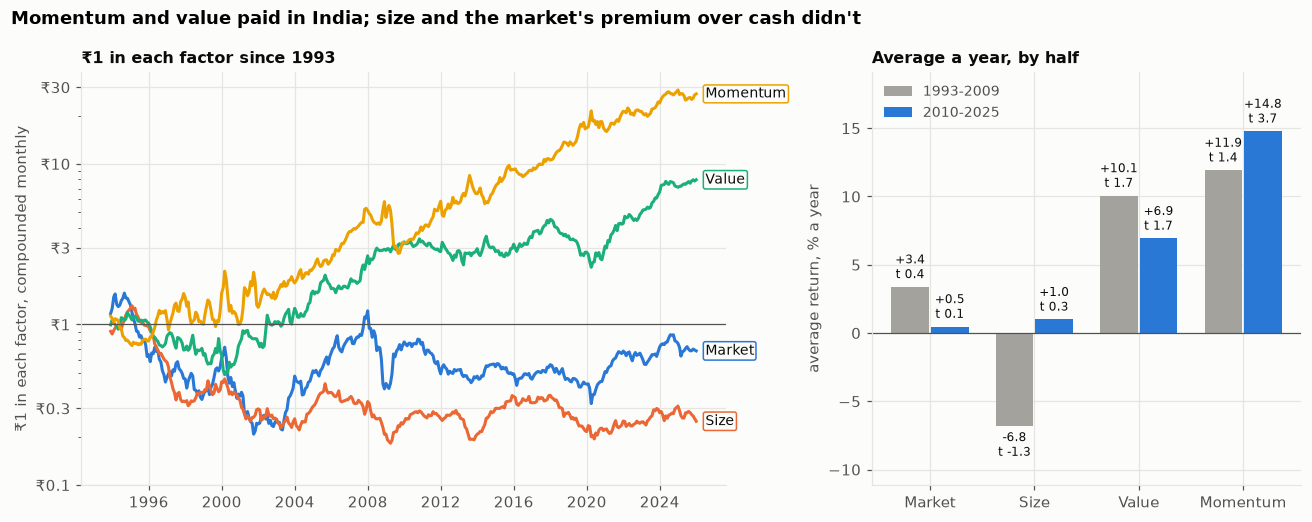
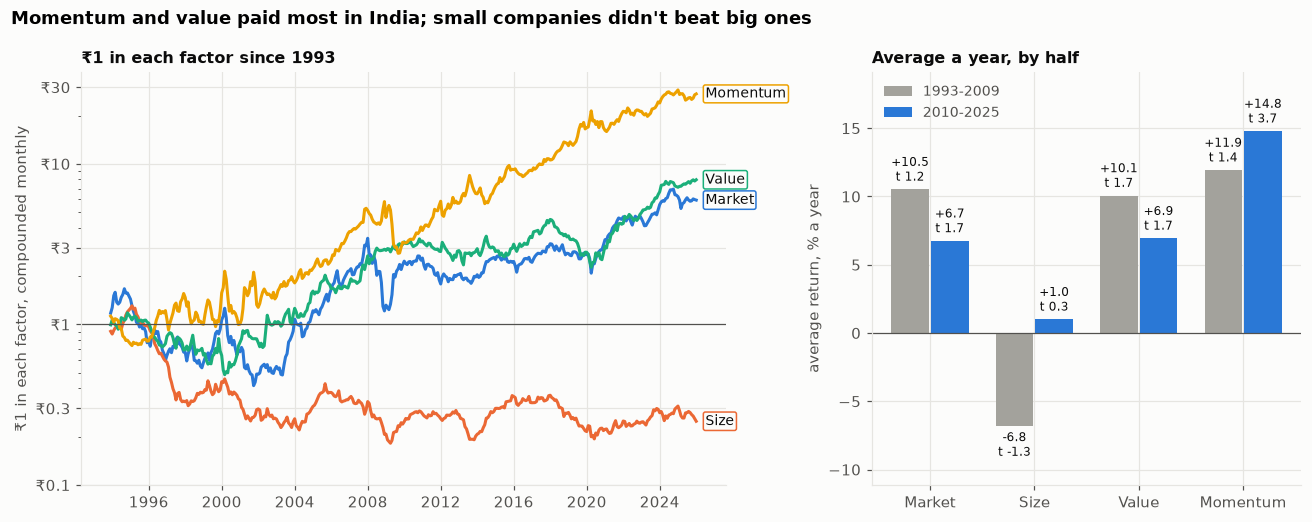
fix: the library's MF column is already the market premium, so stop subtracting the risk-free rate again; corrects finding 1 (market beat cash) and removes the spurious index-fund alpha in the lab, and cites the working paper the library asks for

diff --git a/src/ff/lab.html b/src/ff/lab.html
@@ -17,9 +17,8 @@ small minus big stocks, cheap minus expensive, recent winners minus losers. A li
 A market loading of 1 moves with the market; a positive size loading leans to small companies,
 value to cheap ones, momentum to recent winners. Alpha is what is left over a year after those
 exposures. A t above about 2 in size means the number is unlikely to be luck. Fund prices come
-live from mfapi.in (AMFI NAVs, after fees); direct plans start in 2013. Compare any fund’s alpha
-with the NIFTY 50 index fund’s: an index fund can’t beat its index, yet it shows a large alpha
-here, because the factor data’s market return trailed NIFTY (see the repository).</p>
+live from mfapi.in (AMFI NAVs, after fees); direct plans start in 2013. The NIFTY 50 index fund
+is a check: it can’t beat its index, so its alpha should sit near zero.</p>
 <div class="calc">
   <div class="calc-controls">
     <label>Fund <select id="ff-fund"></select></label>

diff --git a/src/ff/reports.py b/src/ff/reports.py
@@ -21,9 +21,9 @@ def _fmt(s: dict) -> str:
 def report_factors(out_dir: Path) -> dict:
     """What market, size, value and momentum earned in India: IIMA's monthly factors (the latest
     release, survivorship-bias adjusted), whole period and two halves, their worst falls and how
-    they move together. The market factor is the market's return minus the risk-free rate; the
-    other three are long-short. Newey-West t (3 lags). Also IIMA's market return against NIFTY
-    from the NSE bhavcopy archive where both exist."""
+    they move together. The market factor is the market's return minus the risk-free rate (the
+    file's MF); the other three are long-short. Newey-West t (3 lags). Also the market's own
+    return (MF + RF) against NIFTY from the NSE bhavcopy archive where both exist."""
     from ff import data, stats
 
     f = data.factors()
@@ -47,14 +47,14 @@ def report_factors(out_dir: Path) -> dict:
     c = f[data.FACTORS].corr()
     res["correlations"] = "; ".join(f"{a}-{b} {c.at[a, b]:+.2f}" for i, a in enumerate(data.FACTORS)
                                     for b in data.FACTORS[i + 1:])
-    res["market return (MF) and risk-free (RF), compounded"] = (
-        f"MF {stats.summary(f['MF'])['cagr']:+.1%} a year, "
-        f"RF {stats.summary(f['RF'])['cagr']:+.1%}")
+    res["market's own return and risk-free, compounded"] = (
+        f"market {stats.summary(f['MARKET'])['cagr']:+.1%} a year, "
+        f"risk-free {stats.summary(f['RF'])['cagr']:+.1%}")
     try:
         from ff.lake import nifty_monthly
 
         n = nifty_monthly()
-        j = pd.concat([f["MF"], n], axis=1, join="inner").dropna()
+        j = pd.concat([f["MARKET"], n], axis=1, join="inner").dropna()
         g = (1 + j).prod() ** (12 / len(j)) - 1
         res["IIMA market against NIFTY (price index)"] = (
             f"{j.index[0]:%b %Y}-{j.index[-1]:%b %Y}, {len(j)} months: correlation "
@@ -92,7 +92,7 @@ def report_factors(out_dir: Path) -> dict:
     ax.set_title("Average a year, by half", fontsize=10.5, loc="left")
     ax.legend(frameon=False, fontsize=9)
     ax.margins(y=0.2)
-    fig.suptitle("Momentum and value paid in India; size and the market's premium over cash didn't",
+    fig.suptitle("Momentum and value paid most in India; small companies didn't beat big ones",
                  x=0.01, ha="left", fontweight="bold")
     fig.tight_layout()
     plots.save(fig, out_dir, "factors")

diff --git a/src/ff/data.py b/src/ff/data.py
@@ -1,8 +1,9 @@
-"""IIM Ahmedabad's Indian Fama-French-momentum data library (Agarwalla, Jacob and Varma, 2017):
+"""IIM Ahmedabad's Indian Fama-French-momentum data library (Agarwalla, Jacob and Varma):
 the latest release's survivorship-bias adjusted files, fetched into data/iima/ (not committed).
 
 Factor columns, in percent a period: SMB (small minus big), HML (high minus low book-to-market),
-WML (winners minus losers, momentum), MF (market return) and RF (risk-free).
+WML (winners minus losers, momentum), MF (the market premium: market return minus risk-free,
+which matches the library's own published "market premium") and RF (risk-free).
 """
 
 import os
@@ -14,8 +15,9 @@ from pathlib import Path
 import pandas as pd
 
 LIBRARY = "https://faculty.iima.ac.in/iffm/Indian-Fama-French-Momentum/"
-CITATION = ("Agarwalla, S. K., Jacob, J. and Varma, J. R. (2017), Size, Value, and Momentum in "
-            "Indian Equities, Vikalpa 42(4), 211-219")
+CITATION = ("Agarwalla, S. K., Jacob, J. and Varma, J. R. (2013), Four factor model in Indian "
+            "equities market, Working Paper W.P. No. 2013-09-05, Indian Institute of Management, "
+            "Ahmedabad")
 FILES = {
     "factors_monthly": "FourFactors_and_Market_Returns_Monthly",
     "factors_daily": "FourFactors_and_Market_Returns_Daily",
@@ -77,15 +79,17 @@ def _read(key: str) -> pd.DataFrame:
 
 
 def factors(freq: str = "monthly") -> pd.DataFrame:
-    """Factor returns in decimals, indexed by month-end (monthly) or day: MKT (market minus
-    risk-free), SMB, HML, WML, RF and MF. Periods missing any of them are dropped (the source has
+    """Factor returns in decimals, indexed by month-end (monthly) or day: MKT (the market
+    premium, the file's MF), SMB, HML, WML, RF and MARKET (the market's own return, MF + RF).
+    Periods missing any of them are dropped (the source has
     no market return for its first month and no long-short returns for November 1994)."""
     d = _read(f"factors_{freq}") / 100
     d = d.dropna(subset=["MF", "RF", "SMB", "HML", "WML"])
-    d["MKT"] = d["MF"] - d["RF"]
+    d["MKT"] = d["MF"]
+    d["MARKET"] = d["MF"] + d["RF"]
     if freq == "monthly":
         d.index = d.index + pd.offsets.MonthEnd(0)
-    return d[FACTORS + ["RF", "MF"]]
+    return d[FACTORS + ["RF", "MARKET"]]
 
 
 def portfolios(key: str) -> pd.DataFrame:

diff --git a/src/ff/site.py b/src/ff/site.py
@@ -56,8 +56,7 @@ release {d["release"]}, {d["first"]} to {d["last"]}, survivorship-bias adjusted.
 market return minus the risk-free rate; the others are long-short portfolios of listed companies
 sorted on size, book-to-market and past 12-month return (skipping the latest month), with
 micro-cap and penny stocks excluded. November 1994, which has no long-short returns in the source,
-is left out. Their market return trails NIFTY’s price index in some years
-(see the repository), so treat it as IIMA’s own broad market.</li>
+is left out. The market is IIMA’s broad market of listed companies, not NIFTY.</li>
 <li>Growth of ₹1 compounds the monthly returns; averages are 12 times the monthly mean,
 volatility √12 times the monthly standard deviation, compounded growth uses the number of months
 divided by 12, and t is the mean over its Newey-West standard error with 3 lags.</li>

diff --git a/tests/test_stats.py b/tests/test_stats.py
@@ -38,4 +38,5 @@ def test_latest_release_and_factor_parsing(tmp_path, monkeypatch):
     monkeypatch.setenv("FF_DATA_DIR", str(tmp_path))
     f = data.factors()
     assert list(f.index) == [pd.Timestamp("1993-11-30")]
-    assert np.isclose(f["MKT"].iloc[0], 0.035) and np.isclose(f["SMB"].iloc[0], -0.01)
+    assert np.isclose(f["MKT"].iloc[0], 0.04) and np.isclose(f["MARKET"].iloc[0], 0.045)
+    assert np.isclose(f["SMB"].iloc[0], -0.01)

diff --git a/README.md b/README.md
@@ -24,18 +24,19 @@ market, size, value and momentum exposures and what is left over, computed in yo
 
 ## Findings
 
-### 1. Momentum and value paid in India; size and the market's premium over cash didn't
+### 1. Momentum and value paid most in India; small companies didn't beat big ones
 
 <a href="docs/img/factors.png"><picture><source media="(prefers-reduced-motion: reduce)" srcset="docs/img/factors.png"><img src="docs/img/factors.gif" alt="Growth of one rupee in the Indian market, size, value and momentum factors from 1993 to 2025, and each factor's average return a year in 1993-2009 and 2010-2025" width="720"></picture></a>
 
 IIM Ahmedabad's monthly factors (release 2025-12, November 1993 to December 2025, 385 months;
 November 1994 has no long-short returns and is left out), survivorship-bias adjusted. Market is
-the market's return minus the risk-free rate; size (small minus big), value (cheap minus expensive
-on book-to-market) and momentum (last year's winners minus losers, skipping the latest month) are
-long-short portfolios of listed companies, micro-caps and penny stocks excluded. Each factor's
-average a year is 12 times its monthly mean, with a Newey-West t (3 lags); compounded growth uses
-calendar years; the halves are 1993–2009 and 2010–2025. Nothing is fitted. The library's market
-return is checked against NIFTY from the local archive where both exist.
+the market's return minus the risk-free rate (the library's MF column, which matches its own
+published market premium of 4.93% a year since 1994); size (small minus big), value (cheap minus
+expensive on book-to-market) and momentum (winners minus losers on past returns) are long-short
+portfolios of listed companies, micro-caps and penny stocks excluded. Each factor's average a year
+is 12 times its monthly mean, with a Newey-West t (3 lags); compounded growth uses calendar years;
+the halves are 1993–2009 and 2010–2025. Nothing is fitted. The market's own return is checked
+against NIFTY from the local archive where both exist.
 
 - **Momentum paid most.** Winners beat losers by 13.3% a year on average (t 2.84), 10.9% a year
   compounded; 14.8% (t 3.70) in 2010–2025. Over five-year windows it compounded between −2.3% and
@@ -44,10 +45,10 @@ return is checked against NIFTY from the local archive where both exist.
   and 6.9% in 2010–2025 (t 1.7 each). Its worst fall was −59%, from October 1994 to February 2000.
 - **Size didn't pay.** Small minus big averaged −2.9% a year (t −0.88): −6.8% in 1993–2009 and
   +1.0% since, and it fell 86% from January 1995 to March 2009.
-- **The market barely beat cash.** The market factor averaged +1.9% a year (t 0.39) and compounded
-  −1.2%: the library's market return compounded 5.7% a year against 6.9% for the risk-free rate. That
-  market is not NIFTY: from March 2013 to December 2025 it compounded 9.1% a year against 12.6% for
-  NIFTY's price index (monthly correlation 0.91).
+- **The market beat cash, with deep falls.** The market premium averaged 8.6% a year (t 1.78) and
+  compounded 5.7%; the market itself compounded 13.0% a year against 6.9% for cash. It fell 75%
+  from August 1994 to September 2001. From March 2013 it compounded 15.9% a year against 12.6% for
+  NIFTY's price index, which leaves out dividends (monthly correlation 0.92).
 - **Momentum and value offset each other.** Their monthly correlation was −0.37; market and size
   +0.25, market and value +0.22.
 
@@ -81,8 +82,8 @@ it.
   volatility √12 × the monthly standard deviation, compounded growth over months ÷ 12 years; t
   statistics are Newey-West with 3 lags.
 - Data: IIM Ahmedabad's Indian Fama-French-momentum data library (Agarwalla, Jacob and Varma,
-  2017, Size, Value, and Momentum in Indian Equities, Vikalpa 42(4)), the survivorship-bias adjusted
-  series; AMFI net asset values through mfapi.in; NIFTY from a local NSE archive.
+  2013, Four factor model in Indian equities market, IIMA Working Paper 2013-09-05), the
+  survivorship-bias adjusted series; AMFI net asset values through mfapi.in; NIFTY from a local NSE archive.
 - Charts: one validated palette; README charts are animated GIFs with a static fallback for
   reduced-motion users.
 
